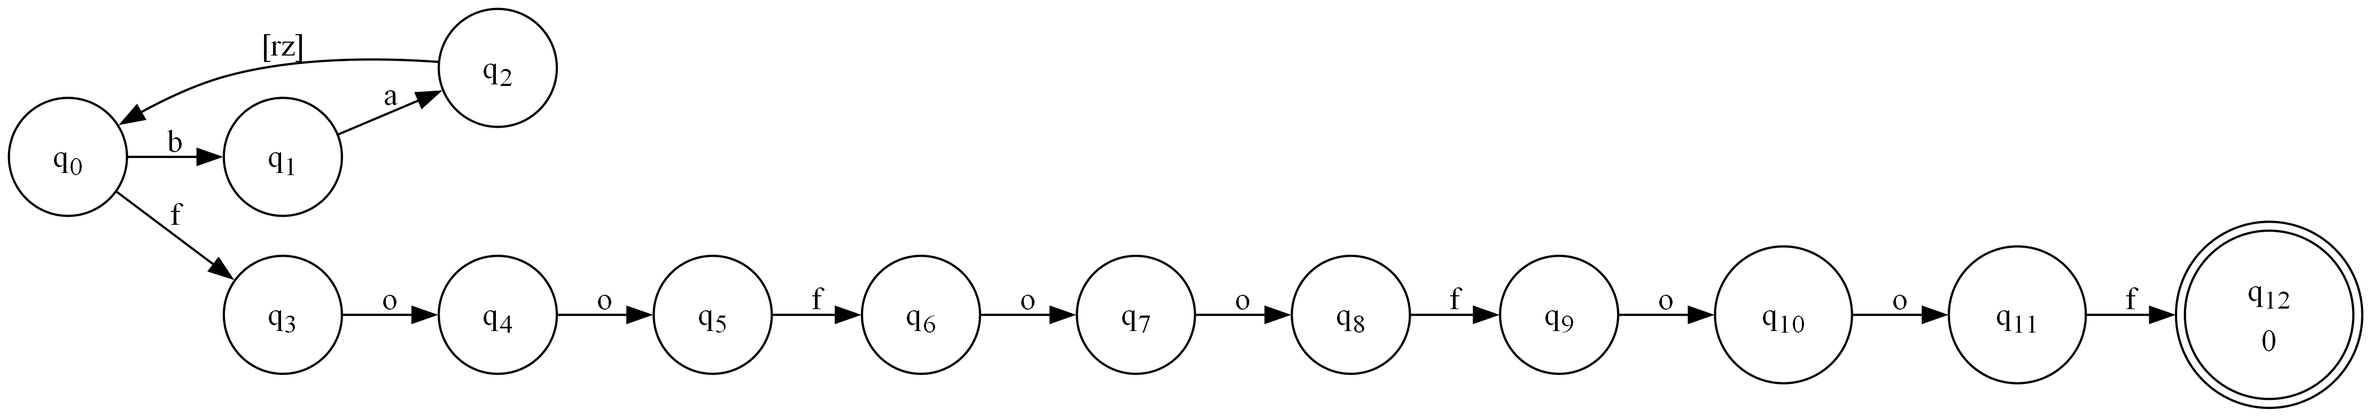
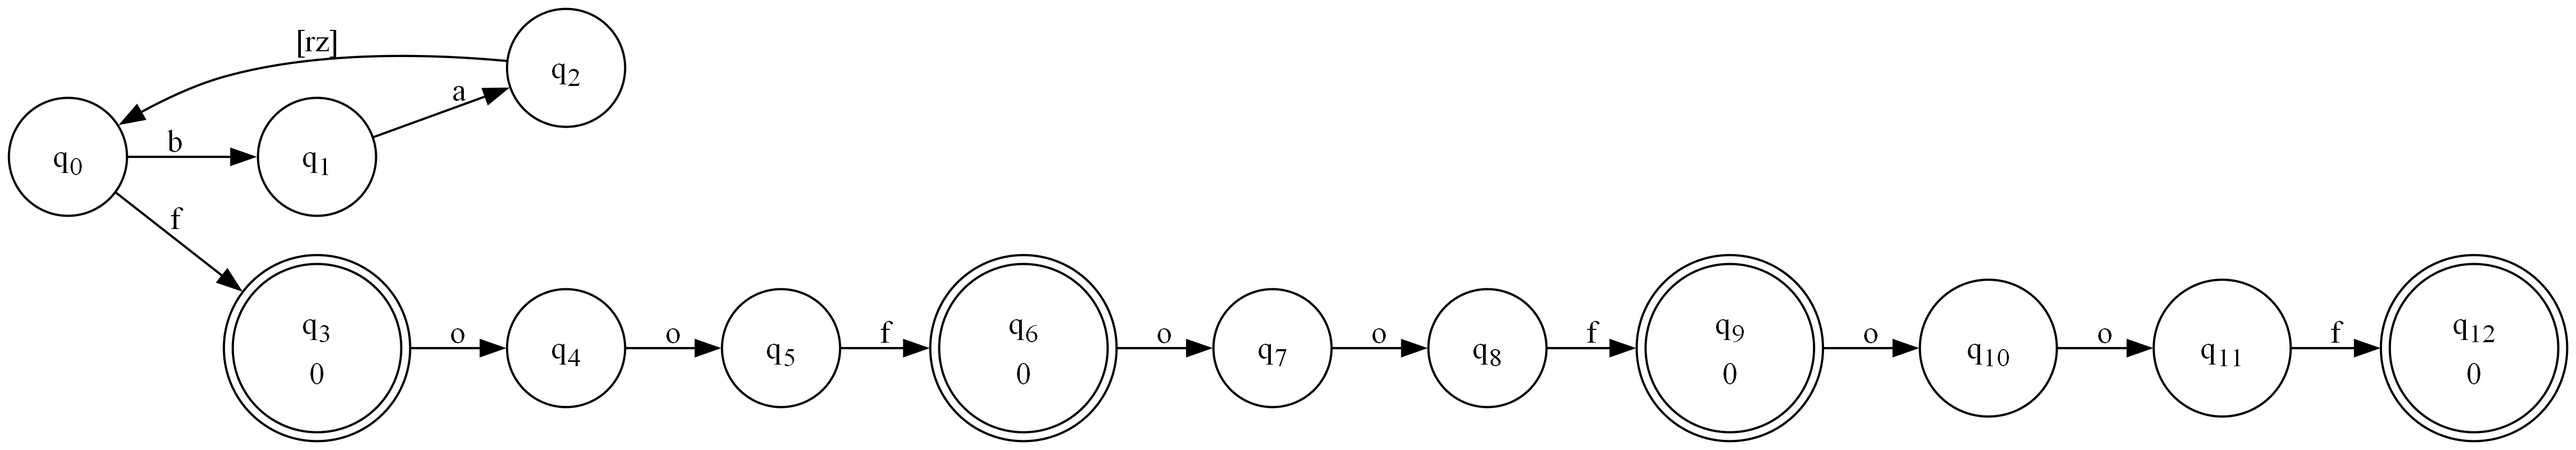
bugfix in reduce

diff --git a/VisualFA.brick.cs b/VisualFA.brick.cs
@@ -2706,15 +2706,15 @@ lhs=_CatIfNeeded(lexps);rhs=null;return true;}}return false;}/// <summary>
 public RegexOrExpression(){}public override bool TryReduce(out RegexExpression reduced){if(SkipReduce){reduced=this;return false;}var result=false;var
  or=new RegexOrExpression();var hasnull=false;for(var i=0;i<Expressions.Count;++i){var e=Expressions[i];if(e==null||e.IsEmptyElement){if(hasnull){result
 =true;}hasnull=true;}else{if(or._AddReduced(e,ref hasnull)){result=true;}}}if(!result){for(int i=0;i<or.Expressions.Count;++i){var lhs=or.Expressions[i];
-for(int j=0;j<i;++j){var rhs=or.Expressions[j];if(_HuntDups(ref lhs,ref rhs)){if(rhs==null){or.Expressions[i]=lhs;or.Expressions.RemoveAt(j);--j;}else
-{or.Expressions[i]=lhs;or.Expressions[j]=rhs;}result=true;}else if(_HuntDups(ref rhs,ref lhs)){if(lhs==null){or.Expressions[j]=rhs;or.Expressions.RemoveAt(i);
---i;}else{or.Expressions[j]=rhs;or.Expressions[i]=lhs;}result=true;}}}if(result){for(int i=0;i<or.Expressions.Count;++i){if(or.Expressions[i]==null){or.Expressions.RemoveAt(i);
---i;}}}if(hasnull){or.Expressions.Add(null);}if(result){if(or.Expressions.Count==0){reduced=null;return true;}else if(or.Expressions.Count==1){reduced
-=or.Expressions[0];return true;}else{reduced=or;return true;}}}switch(or.Expressions.Count){case 0:reduced=null;return true;case 1:if(!hasnull){reduced
-=or.Expressions[0];return true;}reduced=new RegexRepeatExpression(or.Expressions[0],0,1);while(reduced!=null&&reduced.TryReduce(out reduced));return true;
-default:RegexCharsetExpression s=null;RegexCharsetEntry c=null;for(var i=0;i<or.Expressions.Count;++i){var e=or.Expressions[i];var lit=e as RegexLiteralExpression;
-var st=e as RegexCharsetExpression;if(lit!=null&&lit.Codepoints.Length==1){var r=new RegexCharsetCharEntry();r.Codepoint=lit.Codepoints[0];if(c==null)
-{c=r;if(s==null){s=new RegexCharsetExpression();}s.Entries.Add(c);result=true;}else{result=true;s.Entries.Add(r);c=r;}result=true;or.Expressions.RemoveAt(i);
+for(int j=0;j<i;++j){var rhs=or.Expressions[j];if(_HuntDups(ref lhs,ref rhs)){if(rhs==null){or.Expressions[i]=lhs;or.Expressions.RemoveAt(j);--j;--i;}
+else{or.Expressions[i]=lhs;or.Expressions[j]=rhs;}result=true;}else if(_HuntDups(ref rhs,ref lhs)){if(lhs==null){or.Expressions[j]=rhs;or.Expressions.RemoveAt(i);
+--j;--i;}else{or.Expressions[j]=rhs;or.Expressions[i]=lhs;}result=true;}}}if(result){for(int i=0;i<or.Expressions.Count;++i){if(or.Expressions[i]==null)
+{or.Expressions.RemoveAt(i);--i;}}}if(hasnull){or.Expressions.Add(null);}if(result){if(or.Expressions.Count==0){reduced=null;return true;}else if(or.Expressions.Count
+==1){reduced=or.Expressions[0];return true;}else{reduced=or;return true;}}}switch(or.Expressions.Count){case 0:reduced=null;return true;case 1:if(!hasnull)
+{reduced=or.Expressions[0];return true;}reduced=new RegexRepeatExpression(or.Expressions[0],0,1);while(reduced!=null&&reduced.TryReduce(out reduced));
+return true;default:RegexCharsetExpression s=null;RegexCharsetEntry c=null;for(var i=0;i<or.Expressions.Count;++i){var e=or.Expressions[i];var lit=e as
+ RegexLiteralExpression;var st=e as RegexCharsetExpression;if(lit!=null&&lit.Codepoints.Length==1){var r=new RegexCharsetCharEntry();r.Codepoint=lit.Codepoints[0];
+if(c==null){c=r;if(s==null){s=new RegexCharsetExpression();}s.Entries.Add(c);result=true;}else{result=true;s.Entries.Add(r);c=r;}result=true;or.Expressions.RemoveAt(i);
 --i;}else if(st!=null){if(st.HasNegatedRanges){foreach(var range in st.GetRanges()){var r=new RegexCharsetRangeEntry();r.FirstCodepoint=range.Min;r.LastCodepoint
 =range.Max;if(c==null){c=r;if(s==null){s=new RegexCharsetExpression();}result=true;s.Entries.Add(c);}else{result=true;s.Entries.Add(r);c=r;}}result=true;
 or.Expressions.RemoveAt(i);--i;}}}if(s!=null&&!s.IsEmptyElement&&!s.SkipReduce){RegexExpression se=s;while(se!=null&&se.TryReduce(out se));or.Expressions.Add(se);

diff --git a/SimpleStuff/Program.cs b/SimpleStuff/Program.cs
@@ -49,7 +49,7 @@ FA lexer = FA.ToLexer(tokens,true);
 // create an expanded NFA
 // small bug in rendering the movement through
 // this expression (NFA) w/ Graphviz. Not easy to fix
-var sexp = "(ba[rz])*(foo){3}f";
+var sexp = "(ba[rz])*(foo){0,3}f";
 FA testFa = FA.Parse(sexp, 0) ;
 testFa.RenderToFile(@"..\..\..\testFa.png");
 Console.WriteLine("var nfa = FA.Parse(@\"{0}\");",sexp);

diff --git a/VisualFA/RegexAst.cs b/VisualFA/RegexAst.cs
@@ -2880,6 +2880,7 @@ namespace VisualFA
 								or.Expressions[i] = lhs;
 								or.Expressions.RemoveAt(j);
 								--j;
+								--i;
 							}
 							else
 							{
@@ -2893,6 +2894,7 @@ namespace VisualFA
 							{
 								or.Expressions[j] = rhs;
 								or.Expressions.RemoveAt(i);
+								--j;
 								--i;
 							}
 							else
